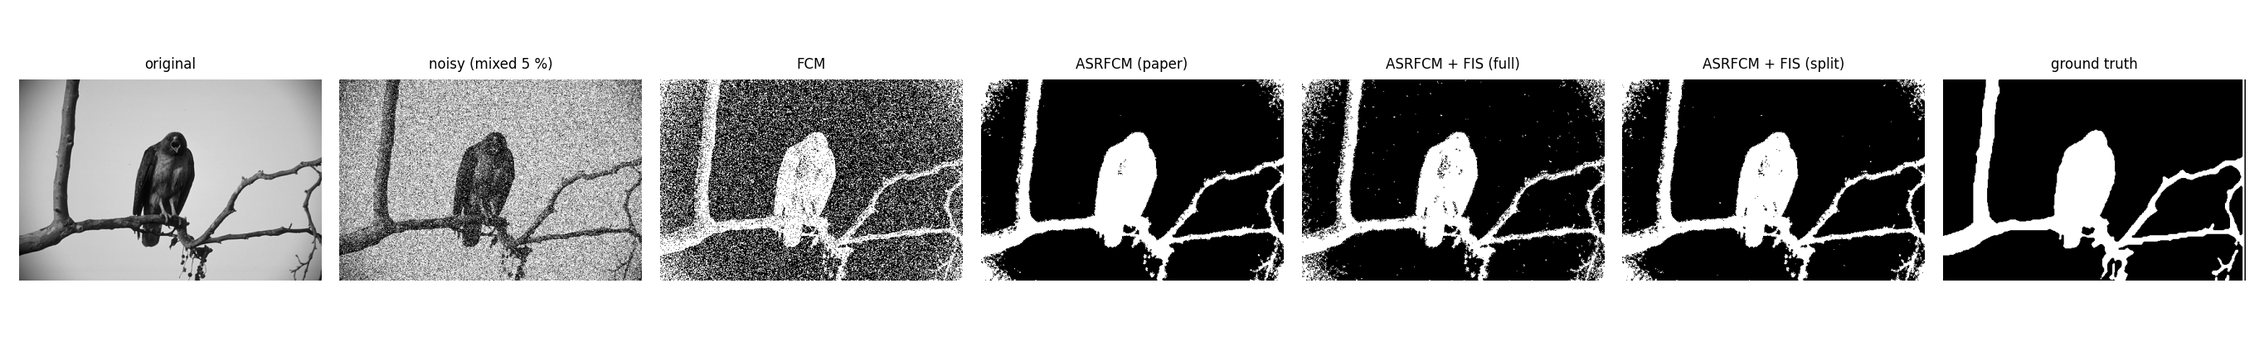
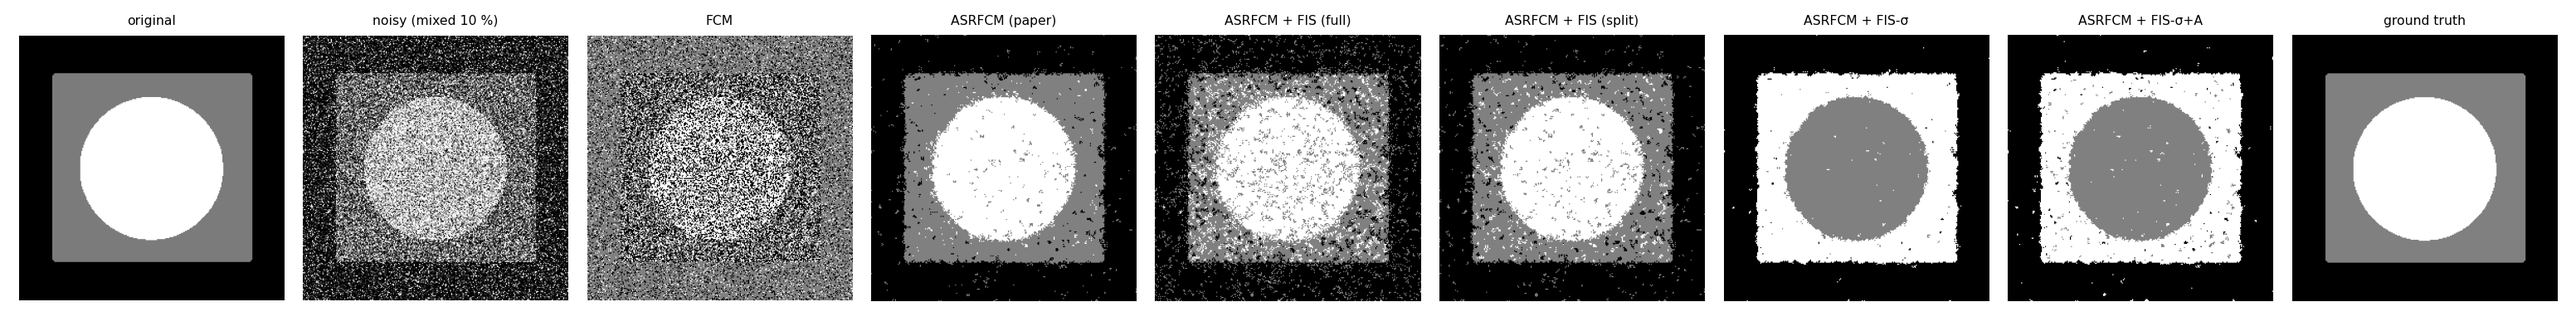
faz9: demo shows the fuzzy reward factor (noise estimate, rule firing, sigma) and FIS-sigma(+A)

diff --git a/demo/demo.py b/demo/demo.py
@@ -1,6 +1,7 @@
 """Live demo: segment a noisy image with FCM, the reproduced method (ASRFCM-CSI)
-and the fuzzy-rule extension, side by side, and explain the fuzzy inference for
-one pixel. Runs offline on a laptop CPU in well under two minutes.
+and the fuzzy-rule extensions (first iteration: FIS full/split; second iteration:
+fuzzy reward factor FIS-sigma and FIS-sigma+A), side by side; explain the sigma rule
+for the image and the coefficient FIS for one pixel. Runs offline on a laptop CPU.
 
 Examples:
     python demo/demo.py                                   # sy3, 10 % mixed noise
@@ -27,7 +28,9 @@ from src.data import noise  # noqa: E402
 from src.eval.metrics import evaluate  # noqa: E402
 from src.fcm.baseline_fcm import fcm  # noqa: E402
 from src.fcm.fis_coefficients import FuzzyCoefficients, build_fis, fis_inputs  # noqa: E402
+from src.fcm.fis_sigma import FuzzySigma, noise_estimate  # noqa: E402
 from src.fcm.pipeline import run_asrfcm  # noqa: E402
+from src.fcm.variants import FIS_SIGMA, FIS_SIGMA_A  # noqa: E402
 
 
 def load(name: str, K: int | None):
@@ -76,6 +79,13 @@ def main() -> None:
     for label, mode in (("ASRFCM + FIS (full)", "full"), ("ASRFCM + FIS (split)", "split")):
         results[label] = run_asrfcm(y, K, seed=args.seed, coeff_method="fis",
                                     fis=FuzzyCoefficients(mode=mode, k=args.k), **params).result
+    # second iteration (D-045): sigma chosen by a 3-rule Mamdani system from the image noise estimate
+    fs = FuzzySigma(**FIS_SIGMA)
+    r_fs = run_asrfcm(y, K, seed=args.seed, use_cache=False, sigma_rule=fs, **params)
+    results["ASRFCM + FIS-sigma"] = r_fs.result
+    results["ASRFCM + FIS-sigma+A"] = run_asrfcm(
+        y, K, seed=args.seed, use_cache=False, sigma_rule=FuzzySigma(**FIS_SIGMA_A), coeff_method="fis",
+        fis=FuzzyCoefficients(mode="full", alpha_scale=0.002, k=args.k), **params).result
     print(f"\n{args.image}, {args.noise} noise {args.level:g} %, K={K}, seed {args.seed} "
           f"(total {time.perf_counter() - t0:.1f} s)\n")
     print(f"{'method':24s} {'ACC':>7s} {'NMI':>7s} {'Kappa':>7s} {'V_PC':>7s} {'iter':>5s}")
@@ -85,6 +95,13 @@ def main() -> None:
             print(f"{name:24s} {m['ACC']:7.2f} {m['NMI']:7.2f} {m['Kappa']:7.2f} {m['VPC']:7.2f} {r.n_iter:5d}")
         else:
             print(f"{name:24s} {'-':>7s} {'-':>7s} {'-':>7s} {evaluate(r.labels, U=r.U)['VPC']:7.2f} {r.n_iter:5d}")
+
+    n_hat = noise_estimate(y)
+    w_sig = fs.fis.firing_strengths({"Noise": np.array([n_hat])})[:, 0]
+    print(f"\nfuzzy reward factor: noise estimate median(|HH|)/0.6745 = {n_hat:.3f}")
+    for line, wr in zip(fs.fis.rule_table(), w_sig):
+        print(f"  fires {wr:.2f}  {line}")
+    print(f"  crisp (centroid): sigma = {r_fs.sigma_used:.3f}   (paper: 0.3)")
 
     if args.pixel:
         i, j = args.pixel
@@ -109,10 +126,10 @@ def main() -> None:
     panels += [(name, r.labels) for name, r in results.items()]
     if gt is not None:
         panels.append(("ground truth", gt))
-    fig, axes = plt.subplots(1, len(panels), figsize=(2.6 * len(panels), 2.9))
+    fig, axes = plt.subplots(1, len(panels), figsize=(2.3 * len(panels), 2.7))
     for ax, (title, im) in zip(axes, panels):
         ax.imshow(im, cmap="gray")
-        ax.set_title(title, fontsize=8)
+        ax.set_title(title.replace("sigma", "σ"), fontsize=7.5)
         ax.axis("off")
     fig.tight_layout()
     out = ROOT / "results" / "figures" / "demo_panel.png"
